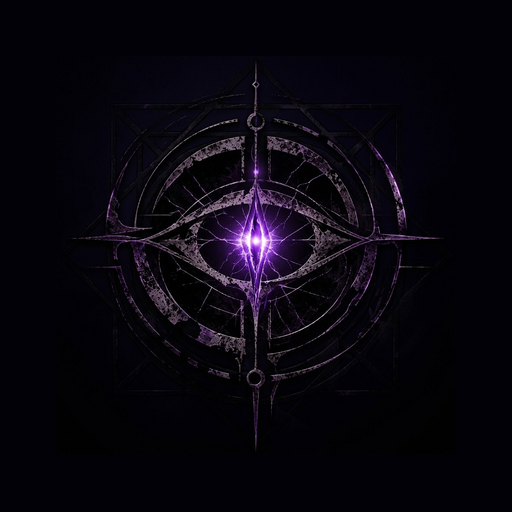
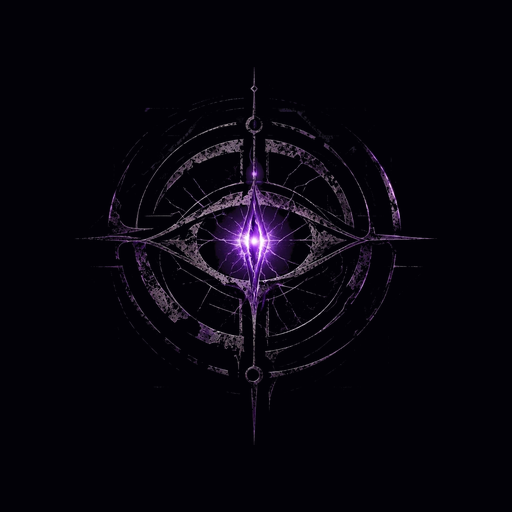
Ícone sem fundo e com o símbolo maior
Claude-Session: https://claude.ai/code/session_01RCrMmGAmHqQfNAWmWsxCLg

diff --git a/ficha.html b/ficha.html
@@ -4,6 +4,7 @@
 <meta charset="utf-8">
 <meta name="viewport" content="width=device-width, initial-scale=1, viewport-fit=cover">
 <title>criação de ficha, colisão RPG 1.0</title>
+<link rel="icon" href="icone-32.png" type="image/png" sizes="32x32">
 <link rel="icon" href="icone-48.png" type="image/png" sizes="48x48">
 <link rel="apple-touch-icon" href="apple-touch-icon.png">
 <link rel="manifest" href="manifest.webmanifest">

diff --git a/index.html b/index.html
@@ -4,6 +4,7 @@
 <meta charset="utf-8">
 <meta name="viewport" content="width=device-width, initial-scale=1, viewport-fit=cover">
 <title>Colisão RPG — Entrar</title>
+<link rel="icon" href="icone-32.png" type="image/png" sizes="32x32">
 <link rel="icon" href="icone-48.png" type="image/png" sizes="48x48">
 <link rel="apple-touch-icon" href="apple-touch-icon.png">
 <link rel="manifest" href="manifest.webmanifest">

diff --git a/lobby.html b/lobby.html
@@ -4,6 +4,7 @@
 <meta charset="utf-8">
 <meta name="viewport" content="width=device-width, initial-scale=1, viewport-fit=cover">
 <title>Colisão RPG — Lobby</title>
+<link rel="icon" href="icone-32.png" type="image/png" sizes="32x32">
 <link rel="icon" href="icone-48.png" type="image/png" sizes="48x48">
 <link rel="apple-touch-icon" href="apple-touch-icon.png">
 <link rel="manifest" href="manifest.webmanifest">
